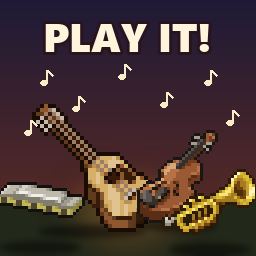
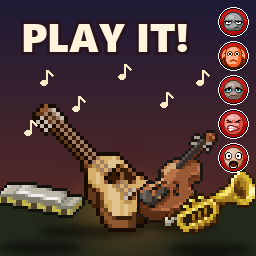
chore: moodles on the cover

Changed region(s): [[0.0625, 0.0312, 0.9688, 0.6875]]

diff --git a/workshop/preview.py b/workshop/preview.py
@@ -16,6 +16,7 @@ GAME = pathlib.Path(sys.argv[1] if len(sys.argv) > 1 else "E:/SteamLibrary/steam
 OUT = pathlib.Path(__file__).with_name("preview.png")
 FONT = "C:/Windows/Fonts/seguibl.ttf"
 S = 256
+MOODLES = ("Moodle_Icon_Bored", "Moodle_Icon_Stressed", "Moodle_Icon_Unhappy", "Moodle_Icon_Angry", "Moodle_Icon_Panic")
 
 
 def icons(*names):
@@ -52,7 +53,7 @@ def note(d, x, y, col):
 
 
 def main():
-    ic = icons("Item_GuitarAcoustic", "Item_Violin", "Item_Trumpet", "Item_Harmonica")
+    ic = icons("Item_GuitarAcoustic", "Item_Violin", "Item_Trumpet", "Item_Harmonica", "Moodle_Bkg_Bad_4", *MOODLES)
     random.seed(5)
     img = Image.new("RGBA", (S, S))
     d = ImageDraw.Draw(img)
@@ -70,13 +71,19 @@ def main():
     place(img, scaled(ic["Item_Trumpet"], 3), 210, 250)
     place(img, scaled(ic["Item_Harmonica"], 3), 40, 248)
 
-    for x, y in [(40, 70), (72, 96), (118, 64), (160, 92), (204, 70), (226, 110), (24, 120)]:
+    # what a level-0 player's audience looks like: maxed-out bad moodles down the right edge, as in the game
+    for i, name in enumerate(MOODLES):
+        y = 6 + i * 34
+        img.alpha_composite(ic["Moodle_Bkg_Bad_4"], (S - 38, y))
+        img.alpha_composite(ic[name], (S - 38, y))
+
+    for x, y in [(40, 70), (72, 96), (118, 64), (160, 92), (196, 70), (24, 120)]:
         note(d, x, y, (250, 236, 200, 255))
 
     font = ImageFont.truetype(FONT, 40)
     text = "PLAY IT!"
     w = d.textlength(text, font=font)
-    d.text(((S - w) / 2, 8), text, font=font, fill=(255, 244, 220, 255), stroke_width=3, stroke_fill=(40, 20, 30, 255))
+    d.text(((S - 44 - w) / 2, 8), text, font=font, fill=(255, 244, 220, 255), stroke_width=3, stroke_fill=(40, 20, 30, 255))
     img.convert("RGB").save(OUT, optimize=True)
     print(OUT, OUT.stat().st_size, "bytes")
 
